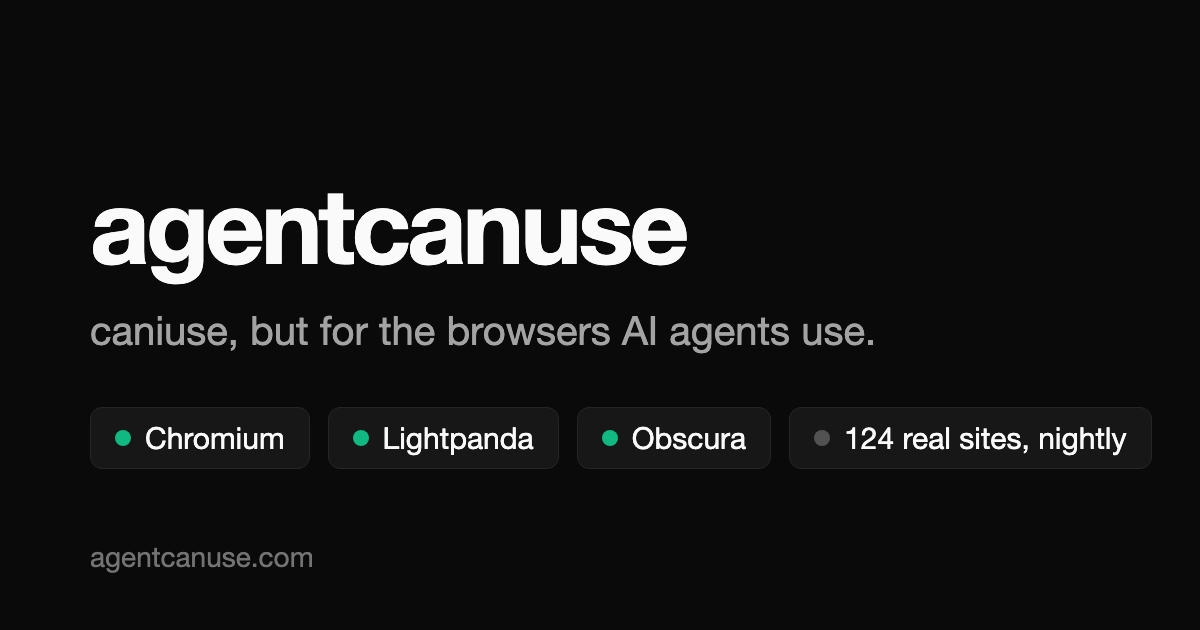
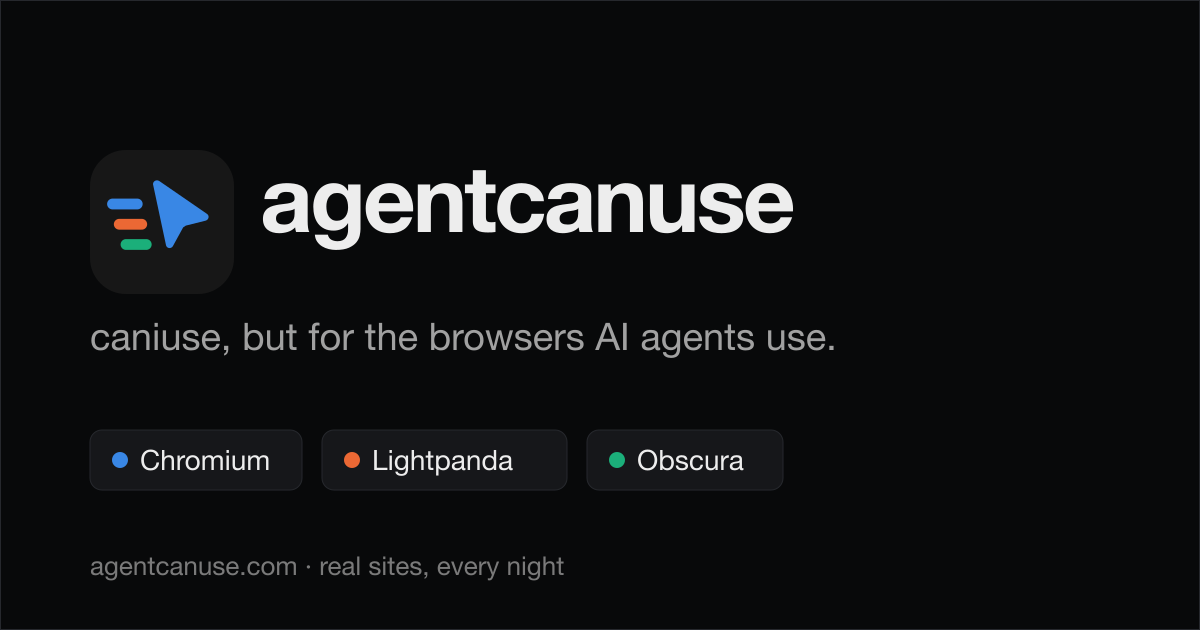
feat: brand the site with the three-engine pointer mark
A blue pointer with a trail in the three engine colours. Its shape and colours live in src/web/brand.ts; npm run brand generates the favicon (light and dark), PNG icons, Apple touch icon, manifest icons and the social image from it, and the top bar draws the same mark.

diff --git a/scripts/brand-assets.ts b/scripts/brand-assets.ts
@@ -1,0 +1,62 @@
+import { writeFile } from 'node:fs/promises'
+import sharp from 'sharp'
+import { BRAND_NAME, BRAND_TAGLINE, MARK_POINTER, MARK_POINTER_COLOR, MARK_RADIUS, MARK_TILE, MARK_TRAIL, MARK_TRAIL_WIDTH, MARK_VIEWBOX } from '../src/web/brand'
+
+const PUBLIC = 'public'
+
+function markBody(tile: string, radius = MARK_RADIUS): string {
+  const trail = MARK_TRAIL.map(({ d, color }) => `<path d="${d}" stroke="${color}" stroke-width="${MARK_TRAIL_WIDTH}" stroke-linecap="round"/>`).join('')
+  return `<rect width="${MARK_VIEWBOX}" height="${MARK_VIEWBOX}" rx="${radius}" fill="${tile}"/><path d="${MARK_POINTER}" fill="${MARK_POINTER_COLOR}"/>${trail}`
+}
+
+function adaptiveFavicon(): string {
+  const trail = MARK_TRAIL.map(({ d, color }) => `<path d="${d}" stroke="${color}" stroke-width="${MARK_TRAIL_WIDTH}" stroke-linecap="round"/>`).join('')
+  return `<svg xmlns="http://www.w3.org/2000/svg" viewBox="0 0 ${MARK_VIEWBOX} ${MARK_VIEWBOX}"><style>.tile{fill:${MARK_TILE.light}}@media (prefers-color-scheme: dark){.tile{fill:${MARK_TILE.dark}}}</style><rect class="tile" width="${MARK_VIEWBOX}" height="${MARK_VIEWBOX}" rx="${MARK_RADIUS}"/><path d="${MARK_POINTER}" fill="${MARK_POINTER_COLOR}"/>${trail}</svg>\n`
+}
+
+function markSvg(size: number, tile: string, radius = MARK_RADIUS): Buffer {
+  return Buffer.from(`<svg xmlns="http://www.w3.org/2000/svg" width="${size}" height="${size}" viewBox="0 0 ${MARK_VIEWBOX} ${MARK_VIEWBOX}">${markBody(tile, radius)}</svg>`)
+}
+
+function socialCard(): Buffer {
+  const mark = `<g transform="translate(90 150) scale(4.5)">${markBody(MARK_TILE.light)}</g>`
+  const CHIP_CHAR = 16.5
+  const CHIP_PADDING = 80
+  const CHIP_GAP = 20
+  let x = 90
+  const chips = [
+    { color: '#3987e5', label: 'Chromium' },
+    { color: '#eb6834', label: 'Lightpanda' },
+    { color: '#1baf7a', label: 'Obscura' },
+  ]
+    .map(({ color, label }) => {
+      const width = Math.round(label.length * CHIP_CHAR + CHIP_PADDING)
+      const chip = `<rect x="${x}" y="430" width="${width}" height="60" rx="12" fill="#16171a" stroke="#26282d"/><circle cx="${x + 30}" cy="460" r="8" fill="${color}"/><text x="${x + 50}" y="470" font-size="28" fill="#ededed">${label}</text>`
+      x += width + CHIP_GAP
+      return chip
+    })
+    .join('')
+  return Buffer.from(`<svg xmlns="http://www.w3.org/2000/svg" width="1200" height="630" viewBox="0 0 1200 630" font-family="Geist, -apple-system, Helvetica Neue, Arial, sans-serif">
+<rect width="1200" height="630" fill="#08090a"/>
+<rect x="0.5" y="0.5" width="1199" height="629" fill="none" stroke="#26282d"/>
+${mark}
+<text x="260" y="232" font-size="92" font-weight="700" letter-spacing="-3" fill="#ededed">${BRAND_NAME}</text>
+<text x="90" y="350" font-size="38" fill="#a1a1a1">${BRAND_TAGLINE}</text>
+${chips}
+<text x="90" y="575" font-size="26" fill="#7a7a7a">agentcanuse.com · real sites, every night</text>
+</svg>`)
+}
+
+async function main(): Promise<void> {
+  await writeFile(`${PUBLIC}/favicon.svg`, adaptiveFavicon())
+  await sharp(markSvg(32, MARK_TILE.light)).resize(32, 32).png().toFile(`${PUBLIC}/favicon-32.png`)
+  await sharp(markSvg(180, MARK_TILE.light, 0)).resize(180, 180).png().toFile(`${PUBLIC}/apple-touch-icon.png`)
+  for (const size of [192, 512]) await sharp(markSvg(size, MARK_TILE.light)).resize(size, size).png().toFile(`${PUBLIC}/icon-${size}.png`)
+  await sharp(socialCard()).png().toFile(`${PUBLIC}/og.png`)
+  console.log('Wrote favicon.svg, favicon-32.png, apple-touch-icon.png, icon-192.png, icon-512.png and og.png')
+}
+
+main().catch((error: unknown) => {
+  console.error(error)
+  process.exitCode = 1
+})

diff --git a/src/web/app.tsx b/src/web/app.tsx
@@ -3,6 +3,7 @@ import type { Run, RunSummary } from '../core/model'
 import { Code } from 'lucide-react'
 import { repository } from '../../package.json'
 import { ThemeToggle } from '@/components/theme-toggle'
+import { BRAND_NAME, MARK_POINTER, MARK_POINTER_COLOR, MARK_RADIUS, MARK_TRAIL, MARK_TRAIL_WIDTH, MARK_VIEWBOX } from '@/brand'
 import { loadIndex, loadRun } from '@/data'
 import { routeHash, useRoute, type Route } from '@/route'
 import { NO_FILTER } from '@/site-filter'
@@ -83,11 +84,12 @@ function tabHref(tab: Tab, run: string | null): string {
 
 function Mark() {
   return (
-    <svg viewBox="0 0 32 32" aria-hidden="true" className="size-6 shrink-0">
-      <rect width="32" height="32" rx="8" className="fill-fg" />
-      <rect x="7" y="17" width="4.5" height="8" rx="1.25" fill="var(--series-1)" />
-      <rect x="13.75" y="11" width="4.5" height="14" rx="1.25" fill="var(--series-2)" />
-      <rect x="20.5" y="7" width="4.5" height="18" rx="1.25" fill="var(--series-3)" />
+    <svg viewBox={`0 0 ${MARK_VIEWBOX} ${MARK_VIEWBOX}`} aria-hidden="true" className="size-6 shrink-0">
+      <rect width={MARK_VIEWBOX} height={MARK_VIEWBOX} rx={MARK_RADIUS} className="fill-fg" />
+      <path d={MARK_POINTER} fill={MARK_POINTER_COLOR} />
+      {MARK_TRAIL.map(({ d, color }) => (
+        <path key={d} d={d} stroke={color} strokeWidth={MARK_TRAIL_WIDTH} strokeLinecap="round" />
+      ))}
     </svg>
   )
 }
@@ -106,7 +108,7 @@ function TopBar({ route, ready, navigate }: TopBarProps) {
       <div className="mx-auto flex h-14 max-w-[1200px] items-center gap-2 px-4 sm:px-6">
         <a href={tabHref('home', runParam)} className="flex items-center gap-2.5 rounded-md pr-1 text-sm font-semibold">
           <Mark />
-          agentcanuse
+          {BRAND_NAME}
         </a>
         {ready && (
           <>

diff --git a/index.html b/index.html
@@ -6,6 +6,9 @@
     <title>agentcanuse: how the browsers AI agents use handle real sites</title>
     <meta name="description" content="A nightly scoreboard of the browser engines AI agents use, Chromium, Lightpanda and Obscura, run against 124 real sites. Which ones render the page, find the content, and get let in." />
     <link rel="icon" type="image/svg+xml" href="./favicon.svg" />
+    <link rel="icon" type="image/png" sizes="32x32" href="./favicon-32.png" />
+    <link rel="apple-touch-icon" href="./apple-touch-icon.png" />
+    <link rel="manifest" href="./site.webmanifest" />
     <meta property="og:type" content="website" />
     <meta property="og:url" content="https://agentcanuse.com/" />
     <meta property="og:title" content="agentcanuse" />
@@ -14,8 +17,8 @@
     <meta property="og:image:width" content="1200" />
     <meta property="og:image:height" content="630" />
     <meta name="twitter:card" content="summary_large_image" />
-    <meta name="theme-color" content="#0a0a0a" media="(prefers-color-scheme: dark)" />
-    <meta name="theme-color" content="#ffffff" media="(prefers-color-scheme: light)" />
+    <meta name="theme-color" content="#08090a" media="(prefers-color-scheme: dark)" />
+    <meta name="theme-color" content="#fafafa" media="(prefers-color-scheme: light)" />
     <script>
       (() => {
         const root = document.documentElement

diff --git a/src/web/brand.ts b/src/web/brand.ts
@@ -1,0 +1,16 @@
+export const BRAND_NAME = 'agentcanuse'
+export const BRAND_TAGLINE = 'caniuse, but for the browsers AI agents use.'
+
+export const MARK_VIEWBOX = 32
+export const MARK_RADIUS = 8
+export const MARK_POINTER = 'M14 7.6c0-.7.8-1.1 1.4-.7l10.6 7.3c.6.4.4 1.3-.3 1.5l-4.4 1.1-.6.4-2.3 4.2c-.4.6-1.3.5-1.5-.2z'
+export const MARK_TRAIL_WIDTH = 2.4
+
+export const MARK_TRAIL: readonly { d: string; color: string }[] = [
+  { d: 'M5 12h5.5', color: '#3987e5' },
+  { d: 'M6.5 16.5h5', color: '#eb6834' },
+  { d: 'M8 21h4.5', color: '#1baf7a' },
+]
+
+export const MARK_POINTER_COLOR = '#3987e5'
+export const MARK_TILE = { light: '#171717', dark: '#ededed' }

diff --git a/AGENTS.md b/AGENTS.md
@@ -47,6 +47,8 @@ Each decision has one owner. Put new code with the owner of the decision it make
 | Wording for engines, outcomes, verdicts, categories and changes; each outcome's mark and status colour; each engine's series colour | `src/web/labels.ts` |
 | How each outcome mark is drawn | `src/web/components/outcome-mark.tsx` |
 | The palette (surfaces, text, series, status, sequential ramp), light and dark, high contrast and motion | `src/web/index.css` |
+| The mark (pointer and three-engine trail), its colours, the name and tagline | `src/web/brand.ts` |
+| The favicon, PNG icons, Apple touch icon and social image, generated from the brand | `scripts/brand-assets.ts` (`npm run brand`) |
 | Light and dark: the stored choice and the toggle | `src/web/theme.ts`, `src/web/components/theme-toggle.tsx`, and the boot script in `index.html` |
 | Page addresses, including filters and the selected run | `src/web/route.ts` |
 | Which run is shown, and what happens for a run id the index doesn't list | `src/web/app.tsx` |
@@ -71,7 +73,7 @@ Each decision has one owner. Put new code with the owner of the decision it make
 
 - Every site in `sites.json` has a `category` from `CATEGORIES` in `src/core/model.ts`; the runner refuses an unknown one.
 - The look is a professional analytics dashboard in the Linear and Vercel mould: a sticky top bar with nav tabs, KPI tiles, bordered cards, dense tables, Geist and Geist Mono, sentence-case copy. Engines are categorical series (blue, orange, aqua, validated as a set); outcomes use the status palette and keep a distinct mark shape, so colour never carries meaning alone; magnitude uses the one-hue blue ramp. All of it is defined in `src/web/index.css`.
-- Colours follow the system's light or dark setting until a visitor picks one with the toggle. `public/og.png` is a static preview image with no scores in it, so it never goes stale; it names the engines and the site count, so redo it when either changes.
+- The icons in `public` and `public/og.png` are generated by `npm run brand` from `src/web/brand.ts`. Change the brand there and rerun it; don't edit the images by hand.
 - Durations are milliseconds. Rates are fractions from 0 to 1, shown as percentages.
 - `index.json` holds a summary per run: its origin, engines, site count, a fingerprint of its site list, and each engine's pass rate. The site reads trends from it without loading every run. `npm run tidy` rebuilds it.
 - A run id is its UTC start minute, `2026-11-19T21-07Z`. `public/data/index.json` lists runs newest first, and each run lives in `public/data/runs/<id>.json`.
